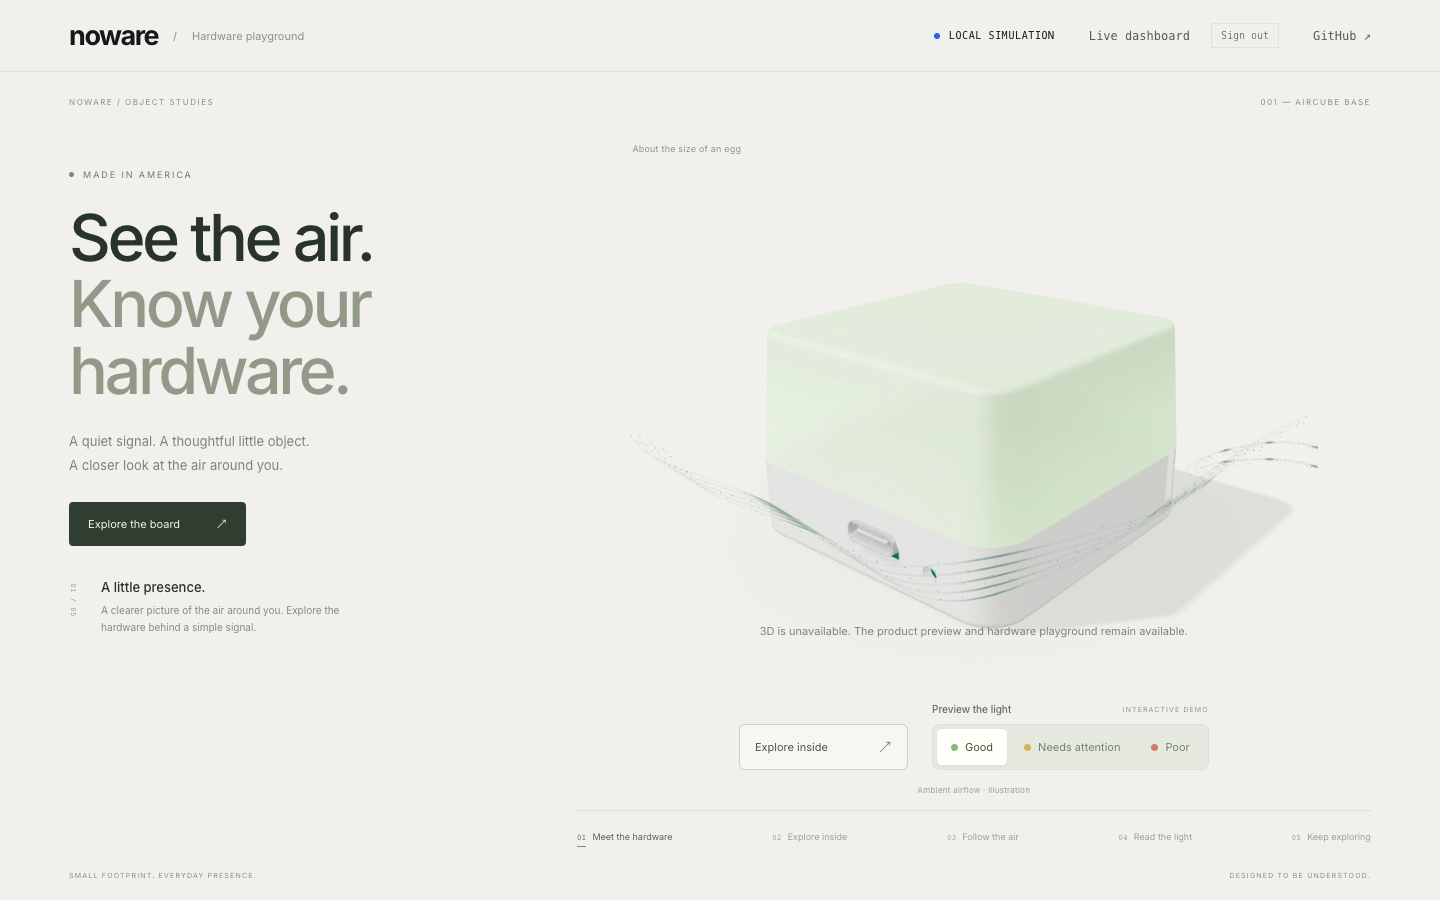
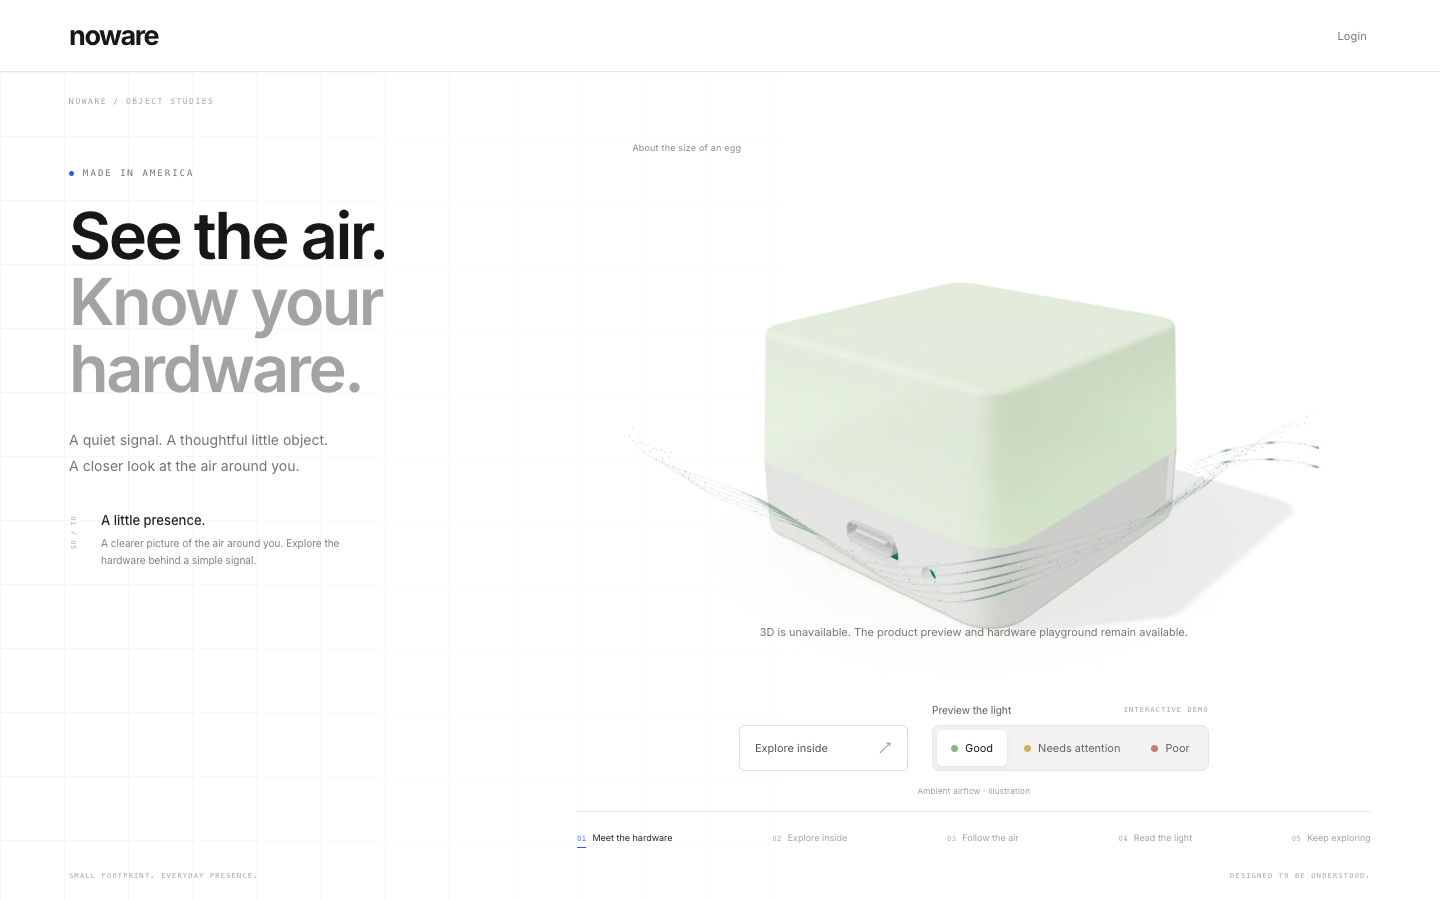
Align NOWARE presentation with Noso visual language

diff --git a/src/showcase/showcase.css b/src/showcase/showcase.css
@@ -1,15 +1,17 @@
-/* NOWARE product presentation. Engineering-tool styles remain in style.css. */
-.noware-home { background: #f1f0ec; }
-.noware-home header { height: 72px; padding: 0 4.8%; background: #f1f0ec; border-color: #dedfd6; }
+/* NOWARE product presentation. Visual cues verified against noso.so:
+   white / graphite / neutral gray, Inter 600, monospace labels, 64 px grid,
+   and selective #2563eb accents. Engineering-tool styles stay in style.css. */
+.noware-home { background: #ffffff; }
+.noware-home header { height: 72px; padding: 0 4.8%; background: #ffffff; border-color: #e5e5e5; }
 .noware-home header .brand strong { font-size: 27px; letter-spacing: -1.5px; }
-.noware-home header .brand > span { font-size: 11px; color: #899080; }
+.noware-home header .brand > span { font-size: 11px; color: #858585; }
 .noware-home header .header-right { letter-spacing: .6px; }
-.noware-home header .github { color: #54604c; }
-.noware-home footer { padding: 25px 4.8%; background: #eeeee8; border-top: 1px solid #dedfd6; color: #7c8474; }
+.noware-home header .github { color: #525252; }
+.noware-home footer { padding: 25px 4.8%; background: #fafafa; border-top: 1px solid #e5e5e5; color: #737373; }
 .hardware-story {
  --air-color: #7dbb70;
- background: #f1f0ec; color: #29332e; position: relative;
- height: calc(100svh + 1000px); border-bottom: 1px solid #d8d9d2;
+ background: #ffffff; color: #171717; position: relative;
+ height: calc(100svh + 1000px); border-bottom: 1px solid #e5e5e5;
 }
 .hardware-sticky {
  position: sticky; top: 0; min-height: 740px; height: calc(100svh - 72px); max-height: 1050px;
@@ -17,80 +19,80 @@
 }
 .hardware-topline, .hardware-bottomline {
  display: flex; justify-content: space-between; gap: 20px;
- font-size: 8px; letter-spacing: 1.5px; color: #87907e;
+ font-size: 8px; letter-spacing: 1.5px; color: #a3a3a3;
 }
 .hardware-topline { padding-bottom: 20px; }
 .hardware-bottomline { margin-top: auto; padding-top: 18px; font-size: 7px; letter-spacing: 1.2px; }
 .hardware-layout { display: grid; grid-template-columns: 39% 61%; flex: 1; min-height: 380px; }
 .hardware-copy { padding: 42px 0 12px; position: relative; z-index: 2; }
-.hardware-kicker { display: flex; align-items: center; gap: 9px; font-size: 9px; letter-spacing: 1.9px; color: #6f7d65; }
-.hardware-kicker > span { width: 5px; height: 5px; background: #7c8d6f; border-radius: 50%; }
-.hardware-copy h2 { font-size: clamp(44px,4.5vw,72px); line-height: 1.025; letter-spacing: -3.5px; font-weight: 500; margin: 25px 0; }
-.hardware-copy h2 em { font-style: normal; color: #929988; }
-.hardware-intro { font-size: 13px; line-height: 1.85; color: #7e8578; }
-.hardware-cta { display: inline-flex; align-items: center; gap: 36px; padding: 14px 19px; margin-top: 25px; border-radius: 4px; background: #303e31; color: #f6f6ee; font-size: 11px; transition: background .2s; }
-.hardware-cta:hover { background: #4b5a42; }
+.hardware-kicker { display: flex; align-items: center; gap: 9px; font-size: 9px; letter-spacing: 1.9px; color: #737373; }
+.hardware-kicker > span { width: 5px; height: 5px; background: #2563eb; border-radius: 50%; }
+.hardware-copy h2 { font-size: clamp(44px,4.5vw,72px); line-height: 1.025; letter-spacing: -.04em; font-weight: 600; margin: 25px 0; }
+.hardware-copy h2 em { font-style: normal; color: #a3a3a3; }
+.hardware-intro { font-size: 13px; line-height: 1.85; color: #737373; }
+.hardware-cta { display: inline-flex; align-items: center; gap: 36px; padding: 14px 19px; margin-top: 25px; border-radius: 4px; background: #171717; color: #ffffff; font-size: 11px; transition: background .2s; }
+.hardware-cta:hover { background: #333333; }
 .hardware-chapter { margin-top: 33px; padding-left: 32px; max-width: 285px; position: relative; }
-.hardware-chapter > span { position: absolute; top: 4px; left: 0; font: 8px monospace; color: #929a87; writing-mode: vertical-rl; }
+.hardware-chapter > span { position: absolute; top: 4px; left: 0; font: 8px monospace; color: #a3a3a3; writing-mode: vertical-rl; }
 .hardware-chapter h3 { font-size: 13px; font-weight: 500; margin-bottom: 7px; }
-.hardware-chapter p { font-size: 10px; line-height: 1.7; color: #858d7b; }
+.hardware-chapter p { font-size: 10px; line-height: 1.7; color: #808080; }
 .hardware-visual { position: relative; min-width: 0; min-height: 380px; }
 .hardware-canvas, .hardware-poster { position: absolute; inset: 0; width: 100%; height: 100%; }
 .hardware-poster { object-fit: contain; transition: opacity .5s; }
 .hardware-ready .hardware-poster { opacity: 0; pointer-events: none; }
 .hardware-canvas canvas { display: block; touch-action: pan-y; cursor: grab; }
 .hardware-canvas canvas:active { cursor: grabbing; }
-.hardware-model-meta { position: absolute; z-index: 2; top: 16px; left: 7%; font-size: 9px; letter-spacing: .2px; color: #8e9784; pointer-events: none; }
-.hardware-view-tools { position: absolute; bottom: 7px; left: 0; right: 0; display: flex; align-items: center; justify-content: center; gap: 20px; font-size: 9px; color: #89927f; }
-.hardware-view-tools button { border: 0; border-left: 1px solid #cfd5c6; padding: 7px 0 7px 20px; background: none; color: #6e7b61; font-size: 9px; }
+.hardware-model-meta { position: absolute; z-index: 2; top: 16px; left: 7%; font-size: 9px; letter-spacing: .2px; color: #8a8a8a; pointer-events: none; }
+.hardware-view-tools { position: absolute; bottom: 7px; left: 0; right: 0; display: flex; align-items: center; justify-content: center; gap: 20px; font-size: 9px; color: #8a8a8a; }
+.hardware-view-tools button { border: 0; border-left: 1px solid #e0e0e0; padding: 7px 0 7px 20px; background: none; color: #737373; font-size: 9px; }
 .hardware-controls { display: flex; justify-content: center; align-items: flex-end; gap: 24px; padding: 18px 0 14px 39%; }
 .hardware-assembly { display: flex; }
-.hardware-assembly button { display: flex; align-items: center; justify-content: space-between; gap: 32px; min-width: 169px; min-height: 46px; padding: 11px 15px; border: 1px solid #cdd2c5; border-radius: 6px; background: #f7f7f2; color: #47533e; font-size: 11px; box-shadow: 0 1px 2px #25301d05; }
-.hardware-assembly button:hover { background: #fffef8; border-color: #a4af98; }
-.hardware-assembly button span { font-size: 14px; color: #7b8770; }
+.hardware-assembly button { display: flex; align-items: center; justify-content: space-between; gap: 32px; min-width: 169px; min-height: 46px; padding: 11px 15px; border: 1px solid #dedede; border-radius: 6px; background: #ffffff; color: #525252; font-size: 11px; box-shadow: 0 1px 2px #00000005; }
+.hardware-assembly button:hover { background: #fafafa; border-color: #a3a3a3; }
+.hardware-assembly button span { font-size: 14px; color: #8a8a8a; }
 .hardware-air { display: grid; gap: 9px; }
-.hardware-air-heading { display: flex; align-items: center; justify-content: space-between; gap: 30px; font-size: 10px; font-weight: 500; color: #64705b; }
-.hardware-demo { font-size: 7px; font-weight: 400; letter-spacing: 1.1px; color: #909787; }
-.hardware-air [role=group] { display: flex; gap: 3px; padding: 4px; border: 1px solid #dce1d3; border-radius: 8px; background: #e6e9e0; }
-.hardware-air button { white-space: nowrap; min-height: 36px; padding: 9px 14px; border: 0; border-radius: 5px; background: transparent; font-size: 11px; color: #5d6953; transition: background .2s,box-shadow .2s; }
-.hardware-air button:hover { background: #f2f4ed; color: #44543a; }
-.hardware-air button[aria-pressed=true] { background: #fffef9; color: #3e5132; box-shadow: 0 1px 4px #2c3d2414,inset 0 0 0 1px #ffffff80; }
+.hardware-air-heading { display: flex; align-items: center; justify-content: space-between; gap: 30px; font-size: 10px; font-weight: 500; color: #737373; }
+.hardware-demo { font-size: 7px; font-weight: 400; letter-spacing: 1.1px; color: #a3a3a3; }
+.hardware-air [role=group] { display: flex; gap: 3px; padding: 4px; border: 1px solid #e5e5e5; border-radius: 8px; background: #f2f2f2; }
+.hardware-air button { white-space: nowrap; min-height: 36px; padding: 9px 14px; border: 0; border-radius: 5px; background: transparent; font-size: 11px; color: #626262; transition: background .2s,box-shadow .2s; }
+.hardware-air button:hover { background: #f9f9f9; color: #262626; }
+.hardware-air button[aria-pressed=true] { background: #ffffff; color: #171717; box-shadow: 0 1px 4px #00000014,inset 0 0 0 1px #ffffff80; }
 .hardware-air i { display: inline-block; width: 7px; height: 7px; margin-right: 7px; border-radius: 50%; background: #85b977; }
 .hardware-air [data-air=attention] i { background: #d4b156; }
 .hardware-air [data-air=poor] i { background: #ce7b6b; }
 .hardware-status { position: absolute; width: 1px; height: 1px; padding: 0; margin: -1px; overflow: hidden; clip-path: inset(50%); white-space: nowrap; }
-.hardware-flow-note { text-align: center; margin: 0 0 12px 39%; font-size: 8px; color: #98a18e; letter-spacing: .25px; }
-.hardware-chapters { display: flex; justify-content: space-between; gap: 12px; margin-left: 39%; padding-top: 8px; border-top: 1px solid #dde1d5; }
-.hardware-chapters button { border: 0; background: none; min-height: 34px; padding: 0; font-size: 9px; color: #9aa28f; }
+.hardware-flow-note { text-align: center; margin: 0 0 12px 39%; font-size: 8px; color: #9b9b9b; letter-spacing: .25px; }
+.hardware-chapters { display: flex; justify-content: space-between; gap: 12px; margin-left: 39%; padding-top: 8px; border-top: 1px solid #e5e5e5; }
+.hardware-chapters button { border: 0; background: none; min-height: 34px; padding: 0; font-size: 9px; color: #a3a3a3; }
 .hardware-chapters button > span { margin-right: 6px; font: 8px monospace; }
-.hardware-chapters button[aria-current=step] { color: #526844; }
-.hardware-chapters button[aria-current=step] > span { border-bottom: 1px solid #7e926c; padding-bottom: 4px; }
-.hardware-chapters [data-action=scroll] { position: absolute; bottom: 18px; right: 4.8%; min-height: 22px; font-size: 8px; background: #f1f0ec; }
+.hardware-chapters button[aria-current=step] { color: #262626; }
+.hardware-chapters button[aria-current=step] > span { border-bottom: 1px solid #2563eb; padding-bottom: 4px; }
+.hardware-chapters [data-action=scroll] { position: absolute; bottom: 18px; right: 4.8%; min-height: 22px; font-size: 8px; background: #ffffff; }
 .hardware-story:has([data-action=scroll]:not([hidden])) .hardware-bottomline > span:last-child { visibility: hidden; }
-.hardware-anchors button { position: absolute; z-index: 3; min-height: 32px; padding: 7px 9px; border: 0; border-bottom: 1px solid #aeb9a5; background: #f1f0ecdd; color: #425637; font-size: 9px; transform: translate(30px,-12px); }
-.hardware-anchors button:before { content: ''; position: absolute; width: 30px; height: 1px; left: -30px; top: 50%; background: #899c7a; }
+.hardware-anchors button { position: absolute; z-index: 3; min-height: 32px; padding: 7px 9px; border: 0; border-bottom: 1px solid #bdbdbd; background: #ffffffed; color: #525252; font-size: 9px; transform: translate(30px,-12px); }
+.hardware-anchors button:before { content: ''; position: absolute; width: 30px; height: 1px; left: -30px; top: 50%; background: #a3a3a3; }
 .hardware-anchors [data-anchor=pcb] { transform: translate(-175px,-12px); }
 .hardware-anchors [data-anchor=pcb]:before { left: auto; right: -60px; width: 60px; }
 .hardware-anchors [data-anchor=diffuser] { transform: translate(130px,-12px); }
 .hardware-anchors [data-anchor=diffuser]:before { left: -45px; width: 45px; }
-.hardware-fallback { position: absolute; bottom: 45px; left: 0; right: 0; text-align: center; color: #7c8474; font-size: 11px; }
+.hardware-fallback { position: absolute; bottom: 45px; left: 0; right: 0; text-align: center; color: #737373; font-size: 11px; }
 .hardware-unavailable .hardware-view-tools { display: none; }
-.hardware-story button:focus-visible, .hardware-story a:focus-visible, .hardware-origin a:focus-visible { outline: 2px solid #6a805b; outline-offset: 4px; }
-.hardware-origin { padding: 75px 8% 55px; background: #e7e9e0; color: #384534; }
-.origin-eyebrow { display: flex; align-items: center; gap: 10px; font-size: 8px; letter-spacing: 1.8px; color: #7d8872; }
-.origin-eyebrow > span { font-size: 21px; color: #6b7f5b; }
-.hardware-origin h2 { font-size: clamp(38px,4.5vw,68px); line-height: 1.12; font-weight: 400; letter-spacing: -2.5px; margin: 30px 0 40px; }
-.hardware-origin h2 > span { color: #8d9881; }
-.origin-bottom { display: flex; justify-content: space-between; align-items: flex-end; gap: 30px; padding-top: 25px; border-top: 1px solid #cbd1c0; }
-.origin-bottom p { font-size: 12px; color: #818c75; line-height: 1.9; }
-.origin-link { display: inline-flex; gap: 55px; font-size: 12px; padding: 12px 0; border-bottom: 1px solid #8f9d80; }
-.origin-link:hover { color: #6e845a; }
-.hardware-playground { background: #eeeee8; }
-.hardware-playground > summary { list-style: none; display: flex; justify-content: space-between; align-items: center; cursor: pointer; padding: 27px 4.8%; font-size: 12px; color: #66745a; }
+.hardware-story button:focus-visible, .hardware-story a:focus-visible, .hardware-origin a:focus-visible { outline: 2px solid #2563eb; outline-offset: 4px; }
+.hardware-origin { padding: 75px 8% 55px; background: #171717; color: #ffffff; }
+.origin-eyebrow { display: flex; align-items: center; gap: 10px; font-size: 8px; letter-spacing: 1.8px; color: #a3a3a3; }
+.origin-eyebrow > span { font-size: 21px; color: #2563eb; }
+.hardware-origin h2 { font-size: clamp(38px,4.5vw,68px); line-height: 1.12; font-weight: 600; letter-spacing: -.035em; margin: 30px 0 40px; }
+.hardware-origin h2 > span { color: #a3a3a3; }
+.origin-bottom { display: flex; justify-content: space-between; align-items: flex-end; gap: 30px; padding-top: 25px; border-top: 1px solid #363636; }
+.origin-bottom p { font-size: 12px; color: #a3a3a3; line-height: 1.9; }
+.origin-link { display: inline-flex; gap: 55px; font-size: 12px; padding: 12px 0; border-bottom: 1px solid #626262; }
+.origin-link:hover { color: #ffffff; }
+.hardware-playground { background: #fafafa; }
+.hardware-playground > summary { list-style: none; display: flex; justify-content: space-between; align-items: center; cursor: pointer; padding: 27px 4.8%; font-size: 12px; color: #525252; }
 .hardware-playground > summary::-webkit-details-marker { display: none; }
-.hardware-playground > summary span { font-size: 10px; color: #8a947e; }
-.hardware-playground > summary:focus-visible { outline: 2px solid #4c683d; outline-offset: -5px; }
-.hardware-playground[open] > summary { background: #e8ebe3; }
+.hardware-playground > summary span { font-size: 10px; color: #8a8a8a; }
+.hardware-playground > summary:focus-visible { outline: 2px solid #2563eb; outline-offset: -5px; }
+.hardware-playground[open] > summary { background: #f0f0f0; }
 @media(min-width:1700px) {
  .hardware-sticky { padding-left: max(5%,calc((100vw - 1530px)/2)); padding-right: max(5%,calc((100vw - 1530px)/2)); }
 }
@@ -153,8 +155,33 @@
  .hardware-sticky { position: relative; }
  .hardware-poster, .hardware-air button, .hardware-cta { transition: none; }
 }
-.noware-home header .hardware-login { display: inline-flex; align-items: center; min-height: 44px; padding: 0 4px; color: #7c8672; font-size: 11px; letter-spacing: .15px; }
-.noware-home header .hardware-login:hover { color: #34452a; }
-.hardware-login:focus-visible { outline: 2px solid #6a805b; outline-offset: 4px; }
-.hardware-workspace-nav { justify-content: flex-end; flex-wrap: wrap; padding: 15px 3%; border-bottom: 1px solid #dedfd6; }
+.noware-home header .hardware-login { display: inline-flex; align-items: center; min-height: 44px; padding: 0 4px; color: #737373; font-size: 11px; letter-spacing: .15px; }
+.noware-home header .hardware-login:hover { color: #171717; }
+.hardware-login:focus-visible { outline: 2px solid #2563eb; outline-offset: 4px; }
+.hardware-workspace-nav { justify-content: flex-end; flex-wrap: wrap; padding: 15px 3%; border-bottom: 1px solid #e5e5e5; }
 @media(max-width:700px) { .hardware-workspace-nav { gap: 12px; font-size: 8px; padding: 15px 22px; } }
+
+/* Shared Noso typographic rhythm, adapted to an unframed hardware stage. */
+.noware-home { -webkit-font-smoothing: antialiased; font-feature-settings: "cv02", "cv03", "cv04", "cv11"; }
+.hardware-sticky { isolation: isolate; }
+.hardware-sticky::before {
+ content: ''; position: absolute; inset: 0; z-index: -1; pointer-events: none;
+ background-image: linear-gradient(#f0f0f0 1px,transparent 1px),linear-gradient(90deg,#f0f0f0 1px,transparent 1px);
+ background-size: 64px 64px;
+ mask-image: linear-gradient(90deg,#0009, #0005 30%,transparent 65%);
+}
+.hardware-topline,.hardware-bottomline,.hardware-kicker,.hardware-demo,.origin-eyebrow {
+ font-family: ui-monospace,SFMono-Regular,Menlo,monospace;
+}
+.hardware-kicker { letter-spacing: 2px; }
+.hardware-intro { font-size: 14px; line-height: 1.85; }
+.hardware-chapter h3 { color: #262626; }
+.hardware-chapters button[aria-current=step] > span { color: #2563eb; }
+.hardware-origin h2 { color: #a3a3a3; }
+.hardware-origin h2 > span { color: #ffffff; }
+.origin-link { color: #ededed; }
+.origin-link:hover { border-color: #ffffff; }
+@media(max-width:700px) {
+ .hardware-intro { font-size: 12px; }
+ .hardware-sticky::before { mask-image: linear-gradient(#0007,transparent 55%); }
+}

diff --git a/src/showcase/scene.js b/src/showcase/scene.js
@@ -4,7 +4,7 @@ import {RoomEnvironment} from 'three/addons/environments/RoomEnvironment.js';
 import {settings,components,storyPose} from './config.js';
 import {makeAirflow} from './airflow.js';
 export async function createScene(host,state,onSelect,onReady){
- const renderer=new T.WebGLRenderer({antialias:true,alpha:true,preserveDrawingBuffer:true});renderer.setPixelRatio(Math.min(devicePixelRatio,innerWidth<600?settings.pixelRatio.mobile:settings.pixelRatio.desktop));renderer.setClearColor('#f1f0ec',0);renderer.outputColorSpace=T.SRGBColorSpace;renderer.toneMapping=T.ACESFilmicToneMapping;renderer.toneMappingExposure=.85;renderer.shadowMap.enabled=true;renderer.shadowMap.type=T.PCFSoftShadowMap;host.append(renderer.domElement);renderer.domElement.setAttribute('aria-label','AirCube Base 3D model. Drag horizontally to rotate; use the controls to explore.');renderer.domElement.setAttribute('role','img');
+ const renderer=new T.WebGLRenderer({antialias:true,alpha:true,preserveDrawingBuffer:true});renderer.setPixelRatio(Math.min(devicePixelRatio,innerWidth<600?settings.pixelRatio.mobile:settings.pixelRatio.desktop));renderer.setClearColor('#ffffff',0);renderer.outputColorSpace=T.SRGBColorSpace;renderer.toneMapping=T.ACESFilmicToneMapping;renderer.toneMappingExposure=.85;renderer.shadowMap.enabled=true;renderer.shadowMap.type=T.PCFSoftShadowMap;host.append(renderer.domElement);renderer.domElement.setAttribute('aria-label','AirCube Base 3D model. Drag horizontally to rotate; use the controls to explore.');renderer.domElement.setAttribute('role','img');
  const scene=new T.Scene(),camera=new T.PerspectiveCamera(settings.fov,1,.1,600);camera.position.set(...settings.camera);camera.lookAt(...settings.target);
  const pmrem=new T.PMREMGenerator(renderer),room=new RoomEnvironment(),env=pmrem.fromScene(room,.04);scene.environment=env.texture;scene.environmentIntensity=.65;room.dispose();pmrem.dispose();
  scene.add(new T.HemisphereLight('#fffef7','#b0b6ba',.65));const key=new T.DirectionalLight('#fffaf0',2);key.position.set(-45,90,45);key.castShadow=true;key.shadow.mapSize.set(1024,1024);Object.assign(key.shadow.camera,{left:-85,right:85,top:85,bottom:-85,near:1,far:250});key.shadow.normalBias=.15;key.shadow.bias=-.0002;key.shadow.radius=4;scene.add(key);const fill=new T.DirectionalLight('#e2ebf5',.65);fill.position.set(60,35,-60);scene.add(fill);

diff --git a/SHOWCASE-HANDOFF.md b/SHOWCASE-HANDOFF.md
@@ -54,3 +54,7 @@ The PCB list and engineering tools are now collapsed by default under Hardware p
 Airflow is always visible in every chapter and manual assembly state. There is no on/off control. Reduced motion keeps the same trails visible but stationary. The fallback poster includes airflow.
 
 The final editorial pass unifies the header, hero, controls, and footer; adds the Made in America closing section; and moves the provenance link into the footer. The closing CTA opens the existing playground. Styles are consolidated in one readable stylesheet rather than stacked overrides.
+
+## Noso family styling
+
+Reviewed https://noso.so/ in a browser at desktop and mobile sizes on October 8, 2026. Adopted its white/graphite/gray palette, Inter 600 heading weight, monospace labels, subtle 64 px grid, and restrained #2563eb accent. The dark origin section echoes its contrasting editorial sections. NOWARE retains its own copy, geometry, rounded interaction controls, persistent airflow, small Login link, and Made in America presentation. No Noso imagery, tracking code, product claims, or layout components were imported.
